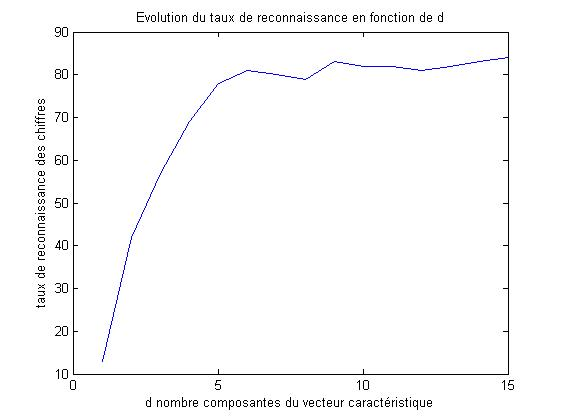
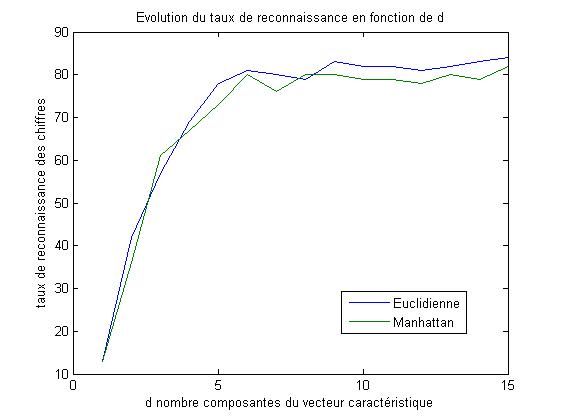
analyse

diff --git a/TauxReconnaissanceDistEucl.m b/TauxReconnaissanceDistEucl.m
@@ -17,7 +17,7 @@ Rectangles=seekRectangles(I,Lignes,Colonnes);
 
 %-- Recherche des profils --%
 Classes=zeros(nbLignes*nbColonnes,15);
-
+Classes2=zeros(nbLignes*nbColonnes,15);
 %le resultat attendu
 Result=zeros(nbLignes*nbColonnes,1);
 for i=0:9
@@ -36,5 +36,20 @@ for d=1:15
 end
 
 
-chooseBestD(Result,Classes);
+%chooseBestD(Result,Classes);
+
+
+for d=1:15
+    Profils = SeekProfiles(I,d,Rectangles,nbColonnes,0);
+    ProfilsMoyen=apprentissage(d);
+
+    %-- calculer distance euclidienne entre ces vecteurs et ceux des centres
+    Distances=distanceManhattan(Profils,ProfilsMoyen,d,nbLignes,nbColonnes);
+    %-- determination de la classe de chaque chiffre = indice-1 de la distance min 
+    [~,index]= min(Distances,[],2);
+    Classes2(1:nbLignes*nbColonnes,d)=index-1;
+end
+
+
+chooseBestD(Result,Classes,Classes2);
 

diff --git a/distanceManhattan.m b/distanceManhattan.m
@@ -1,0 +1,19 @@
+function [ Distances ] = distanceManhattan( Profils,Centre,d,nbClasses,nbColonnes )
+    [l,c]=size(Profils);
+    p=1;
+    Distances=zeros(nbColonnes*nbClasses,nbClasses);% Distances size=[200][10]
+    
+    % chgt de chiffre toutes les d*2 lignes
+   for i=0:2*d:l-2*d
+          % pour les c nombres que contient une ligne
+        for j=1:c
+            %pour les 10 classes
+            for k=1:nbClasses
+                v=Profils(i+1:i+2*d,j)-Centre(1:2*d,k);
+                Distances(p,k)=sum(abs(v));
+            end 
+            p=p+1;
+        end
+    end
+end
+

diff --git a/reconnaissanceKPPV.m b/reconnaissanceKPPV.m
@@ -30,6 +30,8 @@ KPPV=zeros(nbLignes*nbColonnes,1);
 
 i=2;
 taux(1)=0;
+ 
+
 for m=5:5
     %for n=1:10
     n=m;
